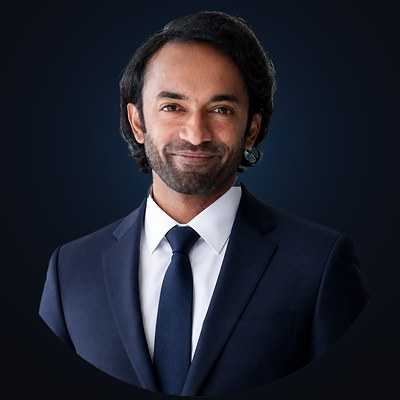
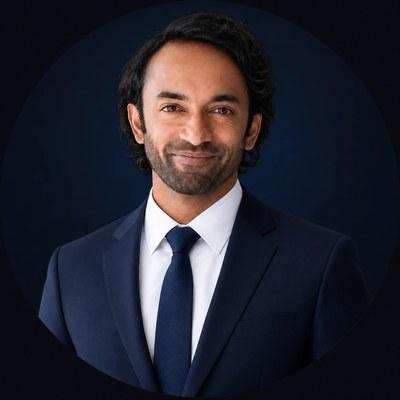
Author photo: use the owner's own corrected portrait
The owner sent his own corrected photo (clean hair edges, his navy
background). It is cropped exactly to its circle (1114 px square, no
other edits) so it fills the page's circular frame without a dark band,
and exported at 1100, 800 and 400 px for srcset. Replaces the version
generated earlier in this PR; the Person image now points to the 1100 px
file.

Claude-Session: https://claude.ai/code/session_0186QiKS3FRVB56Pe9ZPWFzi

diff --git a/author.html b/author.html
@@ -61,7 +61,7 @@
       "@id": "https://layerbit.co.in/author.html#person",
       "name": "Vysakh Suresh",
       "url": "https://layerbit.co.in/author.html",
-      "image": "https://layerbit.co.in/images/author/vysakh-suresh-1200.jpg",
+      "image": "https://layerbit.co.in/images/author/vysakh-suresh-1100.jpg",
       "jobTitle": "Senior Software Analyst",
       "description": "Writes the Layerbit guides and builds its tools; senior software analyst in Dubai with more than 14 years in banking, ERP and enterprise systems.",
       "worksFor": {
@@ -496,7 +496,7 @@
 
   <section class="founder with-photo" aria-labelledby="author-name">
     <div class="author-photo">
-      <img src="images/author/vysakh-suresh-800.jpg" srcset="images/author/vysakh-suresh-400.jpg 400w, images/author/vysakh-suresh-800.jpg 800w, images/author/vysakh-suresh-1200.jpg 1200w" sizes="(max-width: 820px) 200px, 240px" width="240" height="240" alt="Vysakh Suresh" fetchpriority="high" />
+      <img src="images/author/vysakh-suresh-800.jpg" srcset="images/author/vysakh-suresh-400.jpg 400w, images/author/vysakh-suresh-800.jpg 800w, images/author/vysakh-suresh-1100.jpg 1100w" sizes="(max-width: 820px) 200px, 240px" width="240" height="240" alt="Vysakh Suresh" fetchpriority="high" />
     </div>
     <div class="founder-text">
       <p class="founder-kicker">Author and founder of Layerbit</p>

diff --git a/src/pages/author.body.html b/src/pages/author.body.html
@@ -7,7 +7,7 @@
 
   <section class="founder with-photo" aria-labelledby="author-name">
     <div class="author-photo">
-      <img src="images/author/vysakh-suresh-800.jpg" srcset="images/author/vysakh-suresh-400.jpg 400w, images/author/vysakh-suresh-800.jpg 800w, images/author/vysakh-suresh-1200.jpg 1200w" sizes="(max-width: 820px) 200px, 240px" width="240" height="240" alt="Vysakh Suresh" fetchpriority="high" />
+      <img src="images/author/vysakh-suresh-800.jpg" srcset="images/author/vysakh-suresh-400.jpg 400w, images/author/vysakh-suresh-800.jpg 800w, images/author/vysakh-suresh-1100.jpg 1100w" sizes="(max-width: 820px) 200px, 240px" width="240" height="240" alt="Vysakh Suresh" fetchpriority="high" />
     </div>
     <div class="founder-text">
       <p class="founder-kicker">Author and founder of Layerbit</p>

diff --git a/src/pages/author.jsonld.html b/src/pages/author.jsonld.html
@@ -20,7 +20,7 @@
       "@id": "https://layerbit.co.in/author.html#person",
       "name": "Vysakh Suresh",
       "url": "https://layerbit.co.in/author.html",
-      "image": "https://layerbit.co.in/images/author/vysakh-suresh-1200.jpg",
+      "image": "https://layerbit.co.in/images/author/vysakh-suresh-1100.jpg",
       "jobTitle": "Senior Software Analyst",
       "description": "Writes the Layerbit guides and builds its tools; senior software analyst in Dubai with more than 14 years in banking, ERP and enterprise systems.",
       "worksFor": {
